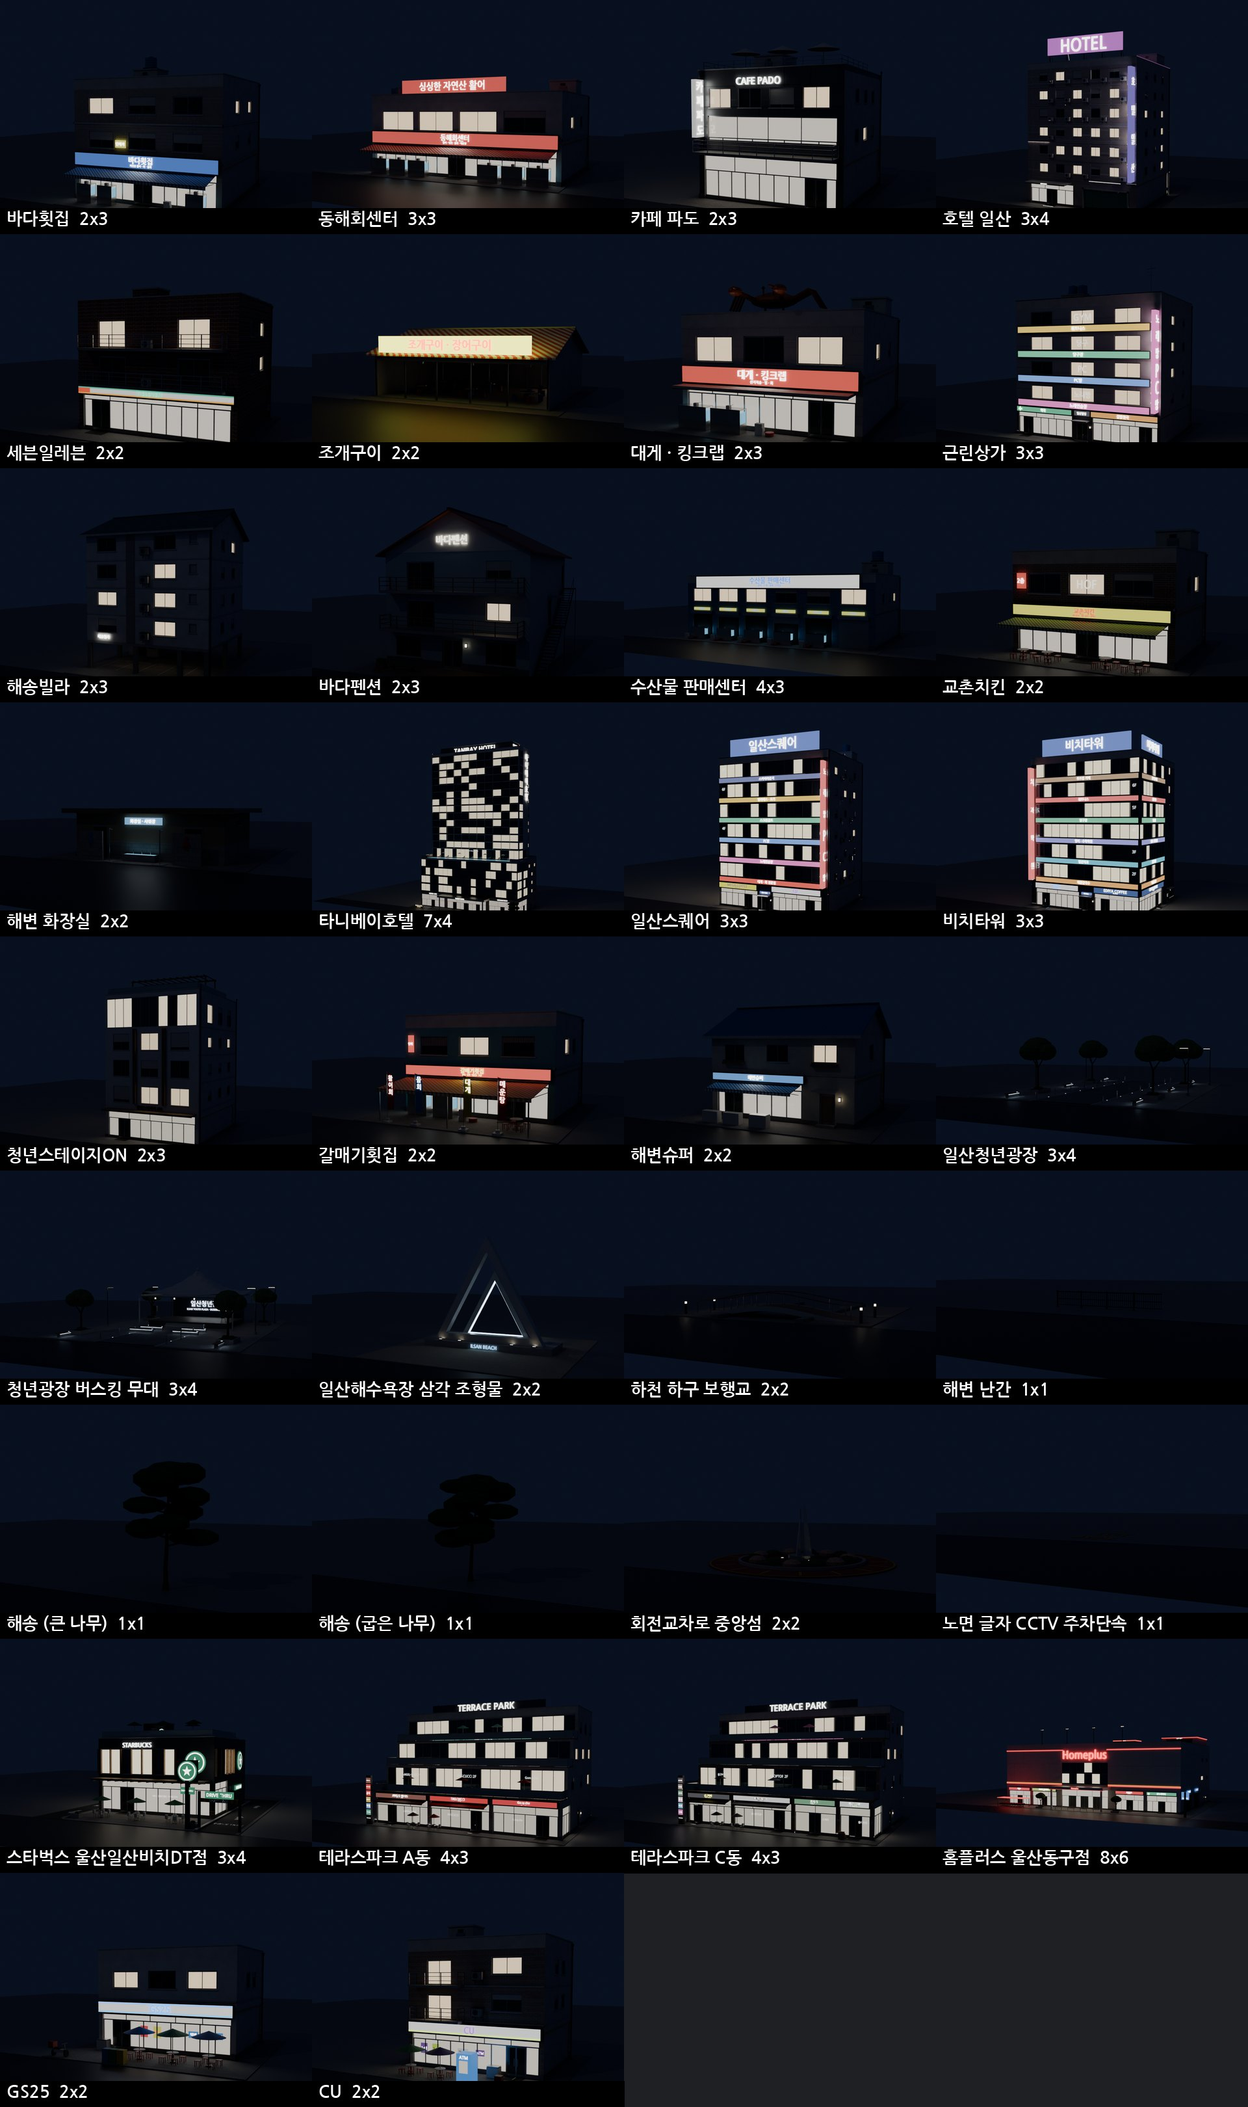
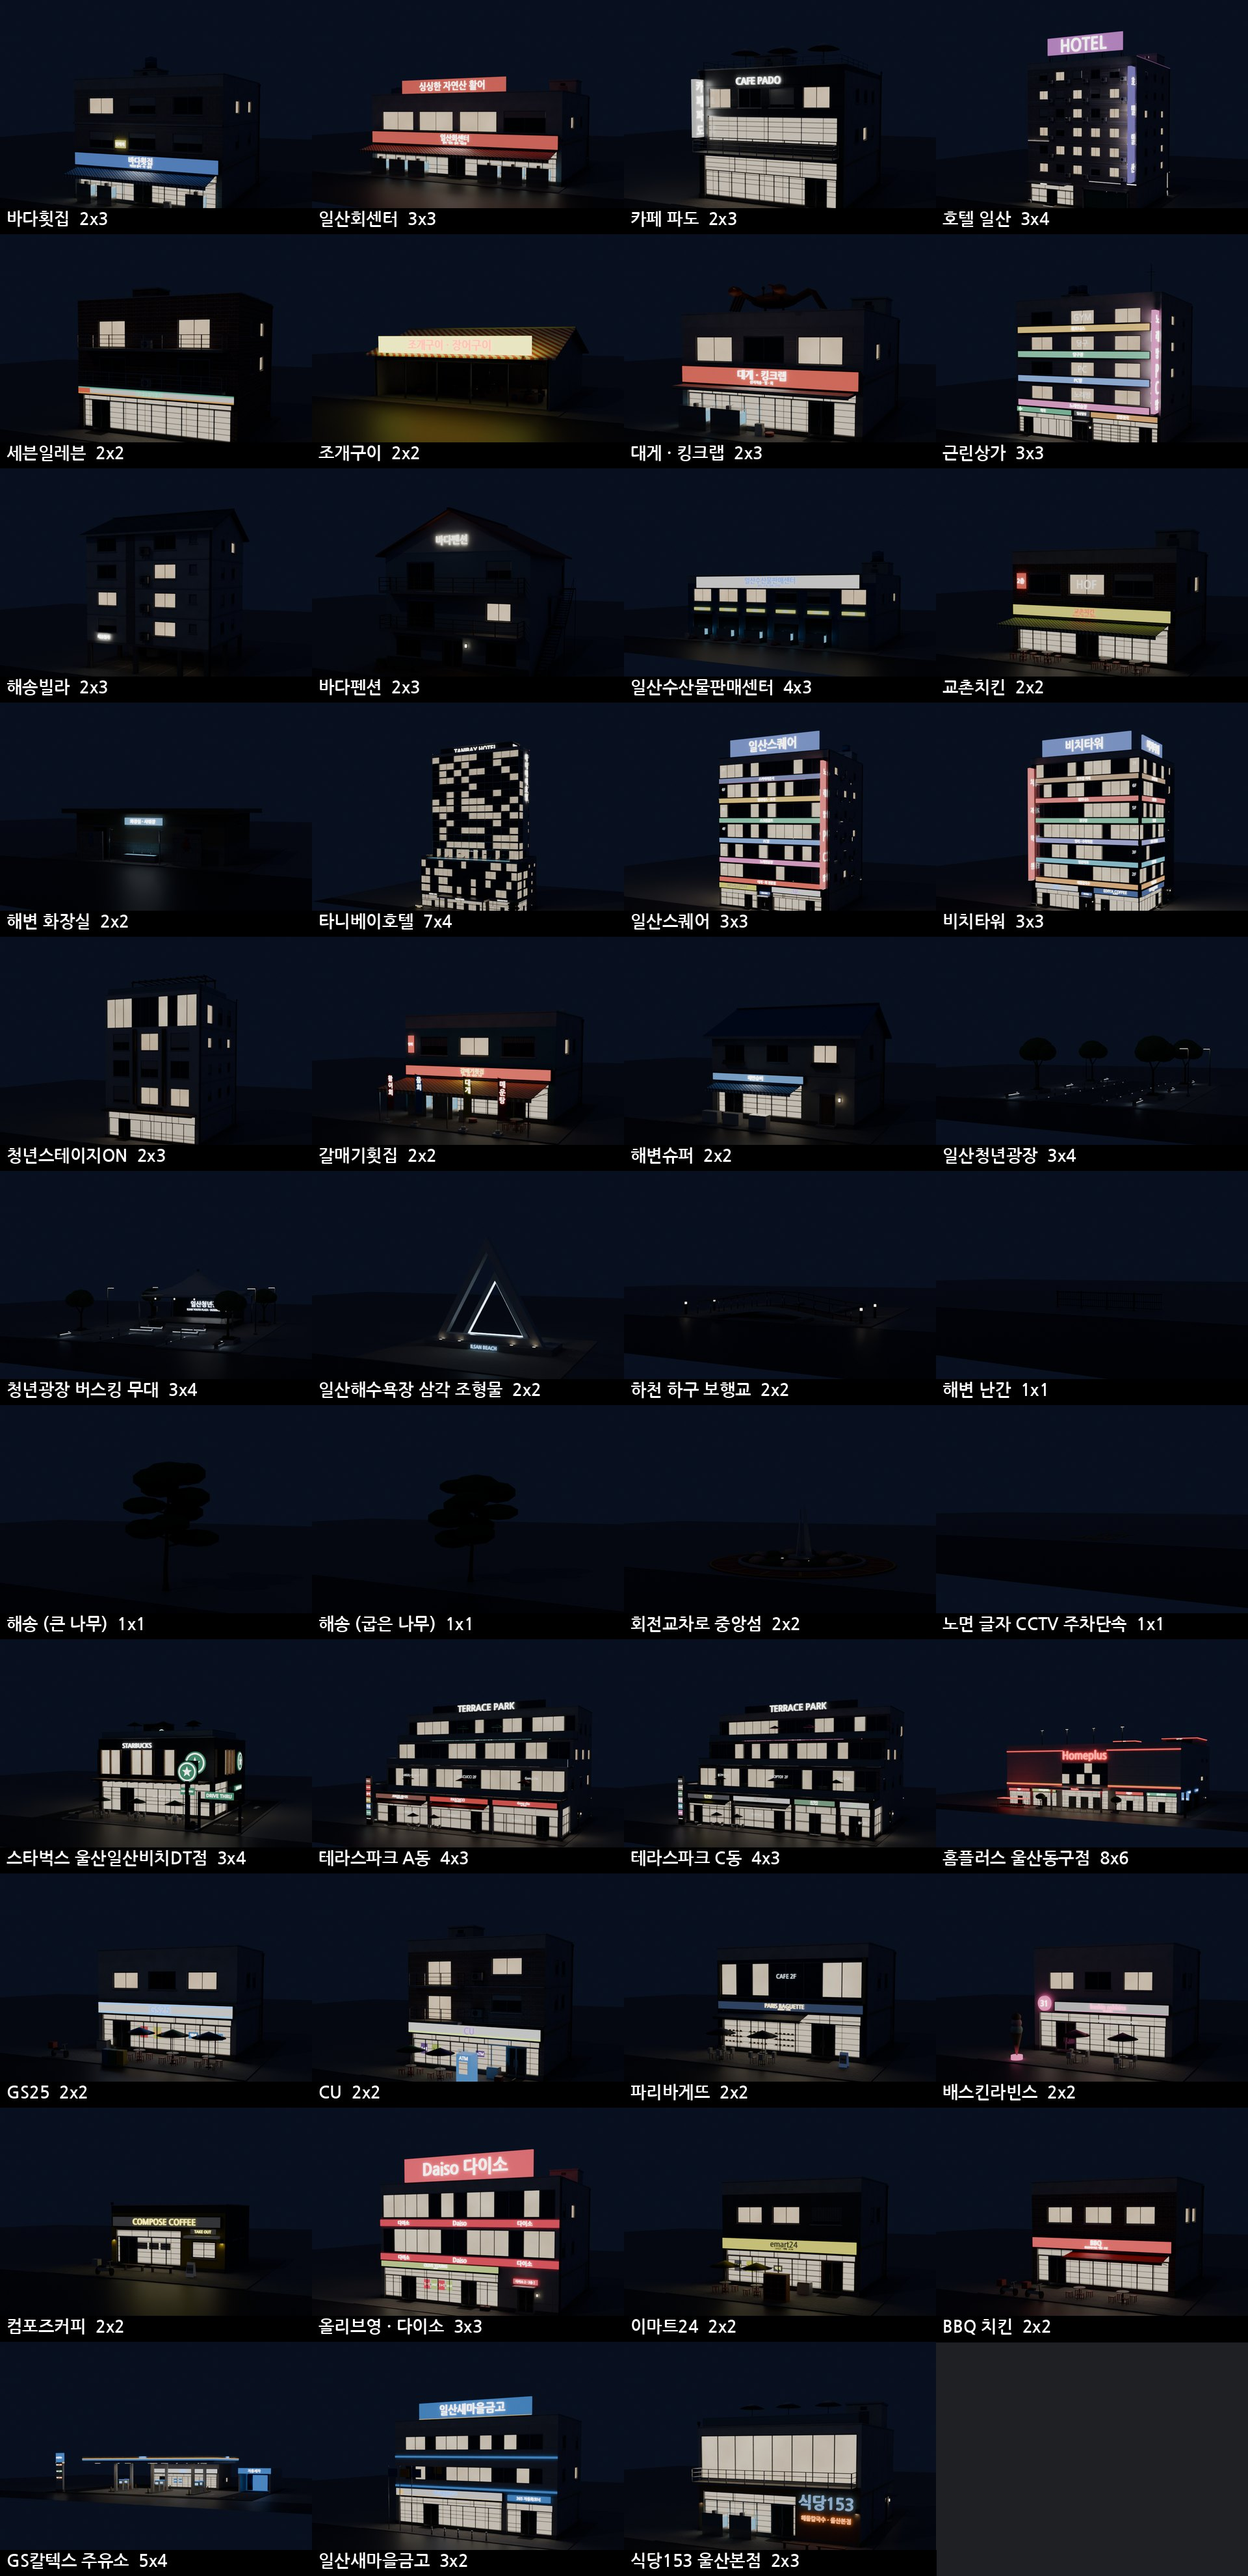
Asset sheets and table for the 43 re-baked assets [skip ci]
Claude-Session: https://claude.ai/code/session_01EaamM5u9qi3GythkVpiboJ

diff --git a/cs2_ilsan/README.md b/cs2_ilsan/README.md
@@ -61,40 +61,49 @@ BBQ 치킨(빨강 간판 · 차양 · 테이블 · 배달 오토바이 2대)도 
 <!-- ASSET_TABLE -->
 | 에셋 | 간판 | 종류 | 부지 (셀) | 건물 크기 | 높이 | 삼각형 LOD0 / 1 / 2 | 개구부 | 텍스처 |
 |---|---|---|---|---|---|---|---|---|
-| `IlsanHoetjip01` | 바다횟집 | 횟집 | 2×3 | 15.2 × 15.0 m | 15.35 m | 16,543 / 8,629 / 1,868 | 22 | 2048 |
-| `IlsanHoetjip02` | 동해회센터 | 횟집 | 3×3 | 23.0 × 14.5 m | 11.15 m | 20,305 / 9,292 / 1,516 | 16 | 2048 |
-| `IlsanCafe01` | 카페 파도 | 카페 | 2×3 | 14.0 × 14.0 m | 14.35 m | 12,300 / 7,744 / 1,984 | 25 | 2048 |
-| `IlsanMotel01` | 호텔 일산 | 숙박 | 3×4 | 20.0 × 18.0 m | 28.2 m | 33,131 / 23,576 / 6,018 | 96 | 2048 |
-| `IlsanShop01` | 세븐일레븐 | 편의점 | 2×2 | 14.0 × 12.0 m | 12.95 m | 8,830 / 6,058 / 1,612 | 20 | 2048 |
-| `IlsanGrill01` | 조개구이 | 조개구이 | 2×2 | 14.0 × 11.0 m | 5.7 m | 6,239 / 2,727 / 106 | 0 | 1024 |
-| `IlsanCrab01` | 대게 · 킹크랩 | 대게 | 2×3 | 15.0 × 15.0 m | 11.06 m | 12,746 / 6,851 / 2,270 | 13 | 2048 |
-| `IlsanMixed01` | 근린상가 | 근린상가 | 3×3 | 22.0 × 16.0 m | 23.15 m | 35,373 / 16,064 / 3,462 | 47 | 2048 |
-| `IlsanVilla01` | 해송빌라 | 주거 | 2×3 | 14.0 × 13.0 m | 17.23 m | 10,955 / 8,446 / 2,350 | 40 | 2048 |
-| `IlsanPension01` | 바다펜션 | 펜션 | 2×3 | 12.5 × 12.0 m | 12.83 m | 6,800 / 4,959 / 1,664 | 22 | 2048 |
-| `IlsanMarket01` | 수산물 판매센터 | 시장 | 4×3 | 30.0 × 16.0 m | 13.65 m | 31,109 / 13,288 / 1,832 | 27 | 2048 |
-| `IlsanChicken01` | 교촌치킨 | 치킨 | 2×2 | 13.5 × 10.5 m | 10.25 m | 15,702 / 6,593 / 1,370 | 13 | 2048 |
-| `IlsanToilet01` | 해변 화장실 | 화장실 | 2×2 | 12.0 × 7.0 m | 4.0 m | 5,563 / 2,354 / 364 | 6 | 1024 |
-| `IlsanTanibayHotel` | 타니베이호텔 | 호텔 | 7×4 | 50.0 × 24.0 m | 79.35 m | 64,788 / 39,690 / 13,247 | 242 | 4096 |
-| `IlsanCornerTower01` | 일산스퀘어 | 상업빌딩 | 3×3 | 22.0 × 20.0 m | 31.35 m | 77,977 / 30,554 / 3,284 | 63 | 2048 |
-| `IlsanCornerTower02` | 비치타워 | 상업빌딩 | 3×3 | 22.0 × 20.0 m | 31.35 m | 74,854 / 29,683 / 3,284 | 63 | 2048 |
-| `IlsanYouthStage` | 청년스테이지ON | 청년공간 | 2×3 | 14.0 × 17.0 m | 22.42 m | 13,607 / 9,872 / 3,184 | 42 | 2048 |
-| `IlsanHoetjip03` | 갈매기횟집 | 횟집 | 2×2 | 13.0 × 10.0 m | 9.1 m | 22,697 / 9,025 / 1,466 | 13 | 2048 |
-| `IlsanBlueRoof01` | 해변슈퍼 | 상가 | 2×2 | 12.0 × 9.5 m | 9.23 m | 5,241 / 3,172 / 930 | 12 | 2048 |
+| `IlsanHoetjip01` | 바다횟집 | 횟집 | 2×3 | 15.2 × 15.0 m | 15.35 m | 21,037 / 9,883 / 1,868 | 22 | 2048 |
+| `IlsanHoetjip02` | 일산회센터 | 횟집 | 3×3 | 23.0 × 14.5 m | 11.15 m | 27,068 / 11,212 / 1,516 | 16 | 2048 |
+| `IlsanCafe01` | 카페 파도 | 카페 | 2×3 | 14.0 × 14.0 m | 14.35 m | 14,616 / 8,390 / 1,984 | 25 | 2048 |
+| `IlsanMotel01` | 호텔 일산 | 숙박 | 3×4 | 20.0 × 18.0 m | 28.2 m | 37,223 / 24,738 / 6,018 | 96 | 2048 |
+| `IlsanShop01` | 세븐일레븐 | 편의점 | 2×2 | 14.0 × 12.0 m | 12.95 m | 10,126 / 6,428 / 1,612 | 20 | 2048 |
+| `IlsanGrill01` | 조개구이 | 조개구이 | 2×2 | 14.0 × 11.0 m | 5.7 m | 8,003 / 3,229 / 106 | 0 | 1024 |
+| `IlsanCrab01` | 대게 · 킹크랩 | 대게 | 2×3 | 15.0 × 15.0 m | 11.06 m | 16,028 / 7,714 / 2,270 | 13 | 2048 |
+| `IlsanMixed01` | 근린상가 | 근린상가 | 3×3 | 22.0 × 16.0 m | 23.15 m | 45,927 / 18,558 / 3,462 | 47 | 2048 |
+| `IlsanVilla01` | 해송빌라 | 주거 | 2×3 | 14.0 × 13.0 m | 17.23 m | 12,089 / 8,774 / 2,350 | 40 | 2048 |
+| `IlsanPension01` | 바다펜션 | 펜션 | 2×3 | 12.5 × 12.0 m | 12.83 m | 7,646 / 5,199 / 1,664 | 22 | 2048 |
+| `IlsanMarket01` | 일산수산물판매센터 | 시장 | 4×3 | 30.0 × 16.0 m | 13.65 m | 43,639 / 16,892 / 1,832 | 27 | 2048 |
+| `IlsanChicken01` | 교촌치킨 | 치킨 | 2×2 | 13.5 × 10.5 m | 10.25 m | 20,310 / 7,736 / 1,370 | 13 | 2048 |
+| `IlsanToilet01` | 해변 화장실 | 화장실 | 2×2 | 12.0 × 7.0 m | 4.0 m | 7,699 / 2,940 / 364 | 6 | 1024 |
+| `IlsanTanibayHotel` | 타니베이호텔 | 호텔 | 7×4 | 50.0 × 24.0 m | 79.35 m | 78,978 / 43,122 / 13,247 | 242 | 4096 |
+| `IlsanCornerTower01` | 일산스퀘어 | 상업빌딩 | 3×3 | 22.0 × 20.0 m | 31.35 m | 107,171 / 38,259 / 3,284 | 63 | 2048 |
+| `IlsanCornerTower02` | 비치타워 | 상업빌딩 | 3×3 | 22.0 × 20.0 m | 31.35 m | 102,840 / 36,989 / 3,284 | 63 | 2048 |
+| `IlsanYouthStage` | 청년스테이지ON | 청년공간 | 2×3 | 14.0 × 17.0 m | 22.42 m | 15,755 / 10,472 / 3,184 | 42 | 2048 |
+| `IlsanHoetjip03` | 갈매기횟집 | 횟집 | 2×2 | 13.0 × 10.0 m | 9.1 m | 30,425 / 11,209 / 1,466 | 13 | 2048 |
+| `IlsanBlueRoof01` | 해변슈퍼 | 상가 | 2×2 | 12.0 × 9.5 m | 9.23 m | 6,171 / 3,440 / 930 | 12 | 2048 |
 | `IlsanPlaza01` | 일산청년광장 | 광장 | 3×4 | 24.0 × 32.0 m | 7.22 m | 5,642 / 4,866 / 4,098 | 0 | 2048 |
-| `IlsanPlazaStage` | 청년광장 버스킹 무대 | 광장 | 3×4 | 24.0 × 32.0 m | 8.9 m | 17,394 / 8,862 / 4,970 | 0 | 2048 |
-| `IlsanBeachLandmark` | 일산해수욕장 삼각 조형물 | 조형물 | 2×2 | 16.0 × 16.0 m | 9.65 m | 6,496 / 1,996 / 80 | 0 | 1024 |
+| `IlsanPlazaStage` | 청년광장 버스킹 무대 | 광장 | 3×4 | 24.0 × 32.0 m | 8.9 m | 22,548 / 10,271 / 4,970 | 0 | 2048 |
+| `IlsanBeachLandmark` | 일산해수욕장 삼각 조형물 | 조형물 | 2×2 | 16.0 × 16.0 m | 9.65 m | 9,400 / 2,808 / 80 | 0 | 1024 |
 | `IlsanStreamBridge` | 하천 하구 보행교 | 다리 | 2×2 | 16.0 × 16.0 m | 2.13 m | 2,062 / 1,802 / 1,218 | 0 | 1024 |
 | `IlsanBeachRail` | 해변 난간 | 소품 | 1×1 | 8.0 × 8.0 m | 1.14 m | 792 / 792 / 792 | 0 | 512 |
 | `IlsanPine01` | 해송 (큰 나무) | 조경 | 1×1 | 8.0 × 8.0 m | 8.46 m | 2,172 / 2,172 / 2,172 | 0 | 1024 |
 | `IlsanPine02` | 해송 (굽은 나무) | 조경 | 1×1 | 8.0 × 8.0 m | 7.02 m | 2,172 / 2,172 / 2,172 | 0 | 1024 |
 | `IlsanRoundabout` | 회전교차로 중앙섬 | 교통 | 2×2 | 16.0 × 16.0 m | 5.34 m | 2,824 / 2,788 / 2,192 | 0 | 1024 |
-| `IlsanRoadMarking01` | 노면 글자 CCTV 주차단속 | 교통 | 1×1 | 8.0 × 8.0 m | 0.01 m | 3,316 / 3,226 / 3,226 | 0 | 512 |
-| `IlsanStarbucksDT` | 스타벅스 울산일산비치DT점 | 카페 | 3×4 | 15.0 × 15.0 m | 11.75 m | 36,137 / 25,330 / 19,409 | 12 | 2048 |
-| `IlsanTerracePark01` | 테라스파크 A동 | 상가 | 4×3 | 30.0 × 20.0 m | 19.1 m | 79,073 / 41,573 / 22,069 | 53 | 2048 |
-| `IlsanTerracePark02` | 테라스파크 C동 | 상가 | 4×3 | 30.0 × 20.0 m | 19.1 m | 68,543 / 40,169 / 22,668 | 54 | 2048 |
-| `IlsanHomeplus` | 홈플러스 울산동구점 | 대형마트 | 8×6 | 56.0 × 38.0 m | 24.38 m | 52,270 / 25,743 / 12,330 | 20 | 4096 |
-| `IlsanGS25` | GS25 | 편의점 | 2×2 | 12.0 × 9.0 m | 9.1 m | 10,424 / 6,657 / 3,131 | 13 | 2048 |
-| `IlsanCU` | CU | 편의점 | 2×2 | 12.5 × 9.5 m | 13.15 m | 13,800 / 8,035 / 2,493 | 20 | 2048 |
+| `IlsanRoadMarking01` | 노면 글자 CCTV 주차단속 | 교통 | 1×1 | 8.0 × 8.0 m | 0.01 m | 4,858 / 4,645 / 4,645 | 0 | 512 |
+| `IlsanStarbucksDT` | 스타벅스 울산일산비치DT점 | 카페 | 3×4 | 15.0 × 15.0 m | 11.75 m | 47,777 / 20,174 / 8,632 | 12 | 2048 |
+| `IlsanTerracePark01` | 테라스파크 A동 | 상가 | 4×3 | 30.0 × 20.0 m | 19.1 m | 107,109 / 35,292 / 4,976 | 53 | 2048 |
+| `IlsanTerracePark02` | 테라스파크 C동 | 상가 | 4×3 | 30.0 × 20.0 m | 19.1 m | 91,013 / 32,545 / 5,114 | 54 | 2048 |
+| `IlsanHomeplus` | 홈플러스 울산동구점 | 대형마트 | 8×6 | 56.0 × 38.0 m | 24.38 m | 70,584 / 25,397 / 4,626 | 20 | 4096 |
+| `IlsanGS25` | GS25 | 편의점 | 2×2 | 12.0 × 9.0 m | 9.1 m | 12,436 / 5,976 / 1,390 | 13 | 2048 |
+| `IlsanCU` | CU | 편의점 | 2×2 | 12.5 × 9.5 m | 13.15 m | 16,534 / 8,359 / 1,876 | 20 | 2048 |
+| `IlsanParisBaguette` | 파리바게뜨 | 베이커리 | 2×2 | 13.0 × 10.0 m | 9.4 m | 29,037 / 6,517 / 1,328 | 11 | 2048 |
+| `IlsanBaskin` | 배스킨라빈스 | 디저트 | 2×2 | 12.0 × 9.0 m | 9.4 m | 28,236 / 7,959 / 2,130 | 13 | 2048 |
+| `IlsanCompose` | 컴포즈커피 | 카페 | 2×2 | 10.0 × 7.5 m | 5.6 m | 26,905 / 8,866 / 620 | 7 | 2048 |
+| `IlsanOliveDaiso` | 올리브영 · 다이소 | 생활용품 | 3×3 | 22.0 × 17.0 m | 16.9 m | 41,232 / 17,045 / 3,852 | 19 | 2048 |
+| `IlsanEmart24` | 이마트24 | 편의점 | 2×2 | 12.0 × 9.0 m | 9.4 m | 16,809 / 7,215 / 1,292 | 13 | 2048 |
+| `IlsanBBQ` | BBQ 치킨 | 치킨 | 2×2 | 12.5 × 9.5 m | 9.4 m | 24,490 / 6,913 / 1,268 | 13 | 2048 |
+| `IlsanGasStation` | GS칼텍스 주유소 | 주유소 | 5×4 | 16.0 × 9.0 m | 7.8 m | 59,404 / 20,590 / 4,586 | 5 | 4096 |
+| `IlsanMGBank` | 일산새마을금고 | 금융 | 3×2 | 20.0 × 11.0 m | 14.6 m | 27,288 / 11,731 / 1,650 | 21 | 2048 |
+| `IlsanSikdang153` | 식당153 울산본점 | 식당 | 2×3 | 14.0 × 14.0 m | 11.45 m | 18,119 / 8,311 / 1,268 | 13 | 2048 |
 
 ![야경](docs/assets_night.jpg)
 
@@ -200,7 +209,7 @@ BBQ 치킨(빨강 간판 · 차양 · 테이블 · 배달 오토바이 2대)도 
 | 파일 | 내용 |
 |---|---|
 | `<이름>.fbx` | LOD0. 1 단위 = 1 m, 원점 = **부지 중심 지면**, 정면 = 블렌더 −Y (유니티 +Z) |
-| `<이름>_LOD1.fbx`, `_LOD2.fbx` | LOD1: 작은 소품을 빼고 글자만 줄임 (건물 LOD0 의 39~77 %). LOD2: 글자 · 창틀 · 난간 · 실외기 · 수조를 빼고 같은 평면을 합침 (2~24 %). 작은 조각이 찌그러지지 않도록 건물 전체를 Collapse 하지 않습니다. 같은 UV 라 같은 텍스처를 씁니다 |
+| `<이름>_LOD1.fbx`, `_LOD2.fbx` | LOD1: 작은 소품을 빼고 글자만 줄임 (건물 LOD0 의 22~73 %). LOD2: 글자 · 창틀 · 난간 · 실외기 · 수조를 빼고 같은 평면을 합침 (1~22 %). 작은 조각이 찌그러지지 않도록 건물 전체를 Collapse 하지 않습니다. 같은 UV 라 같은 텍스처를 씁니다 |
 | `_BaseColor` | 기본색 + 약한 AO (sRGB) |
 | `_Normal` | 탄젠트 공간, OpenGL(Y+). 타일 줄눈 · 사이딩 · 금속 이음매 범프 포함 |
 | `_MaskMap` | R = 금속성, G = 코트(0), B = 0, A = 광택(1 − 거칠기) |
